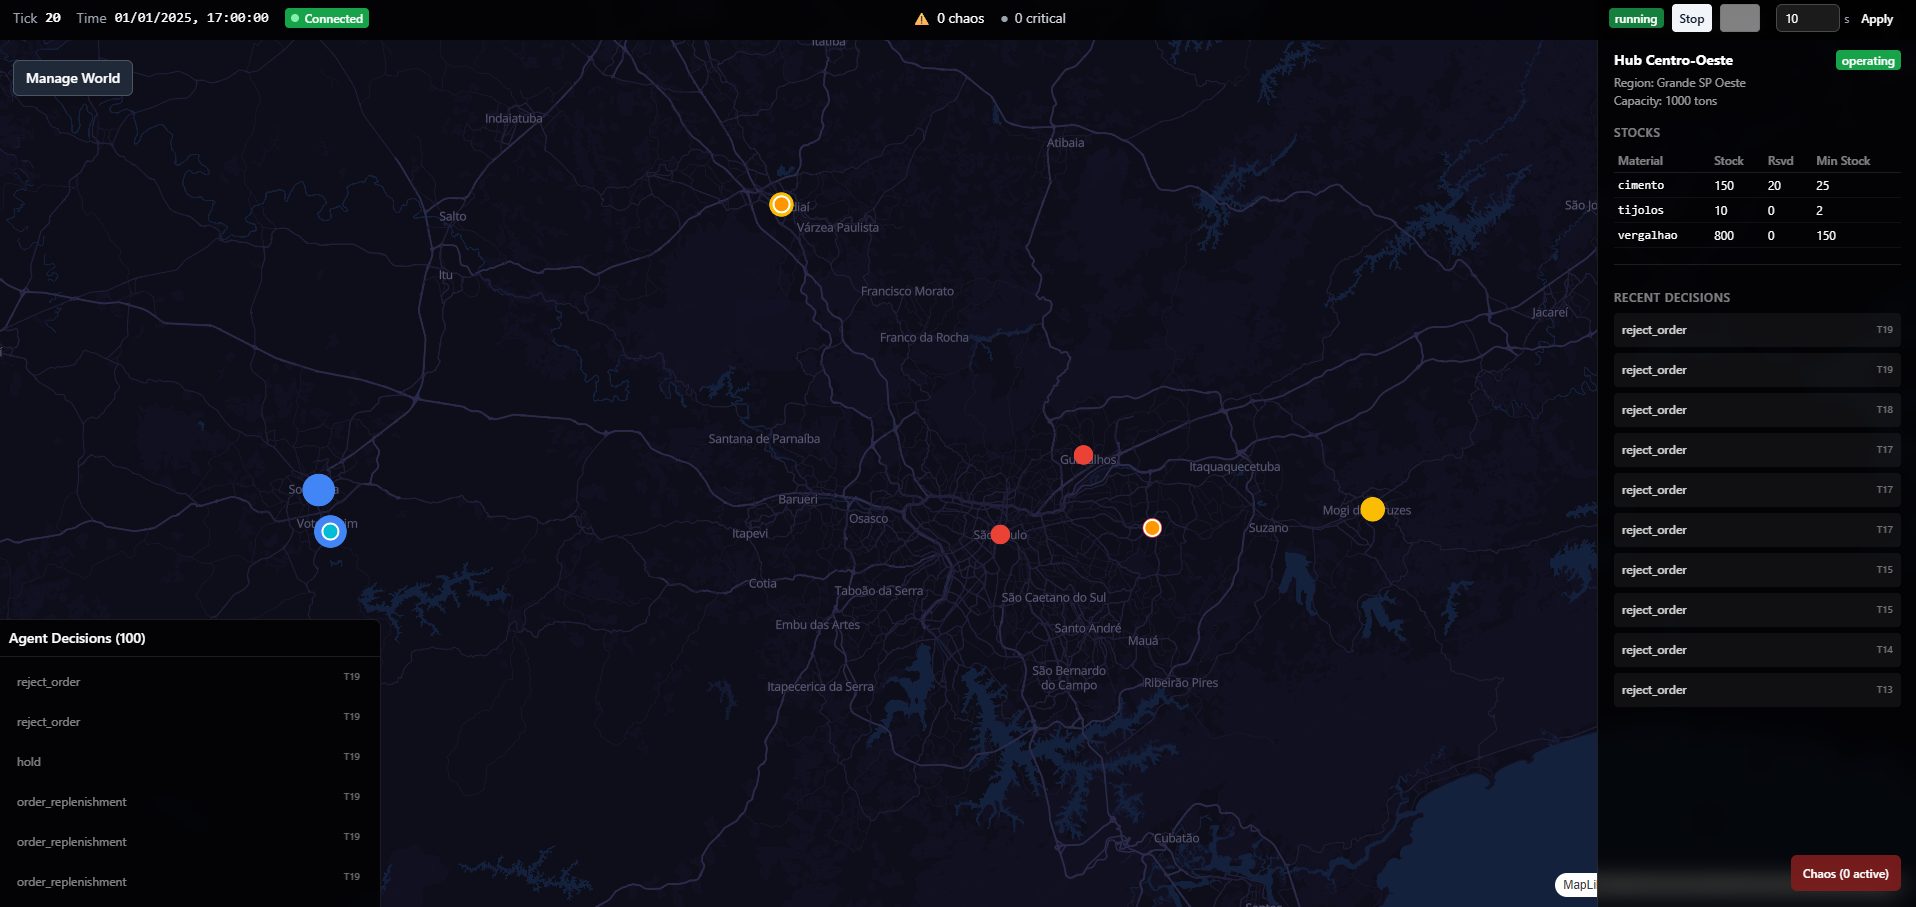
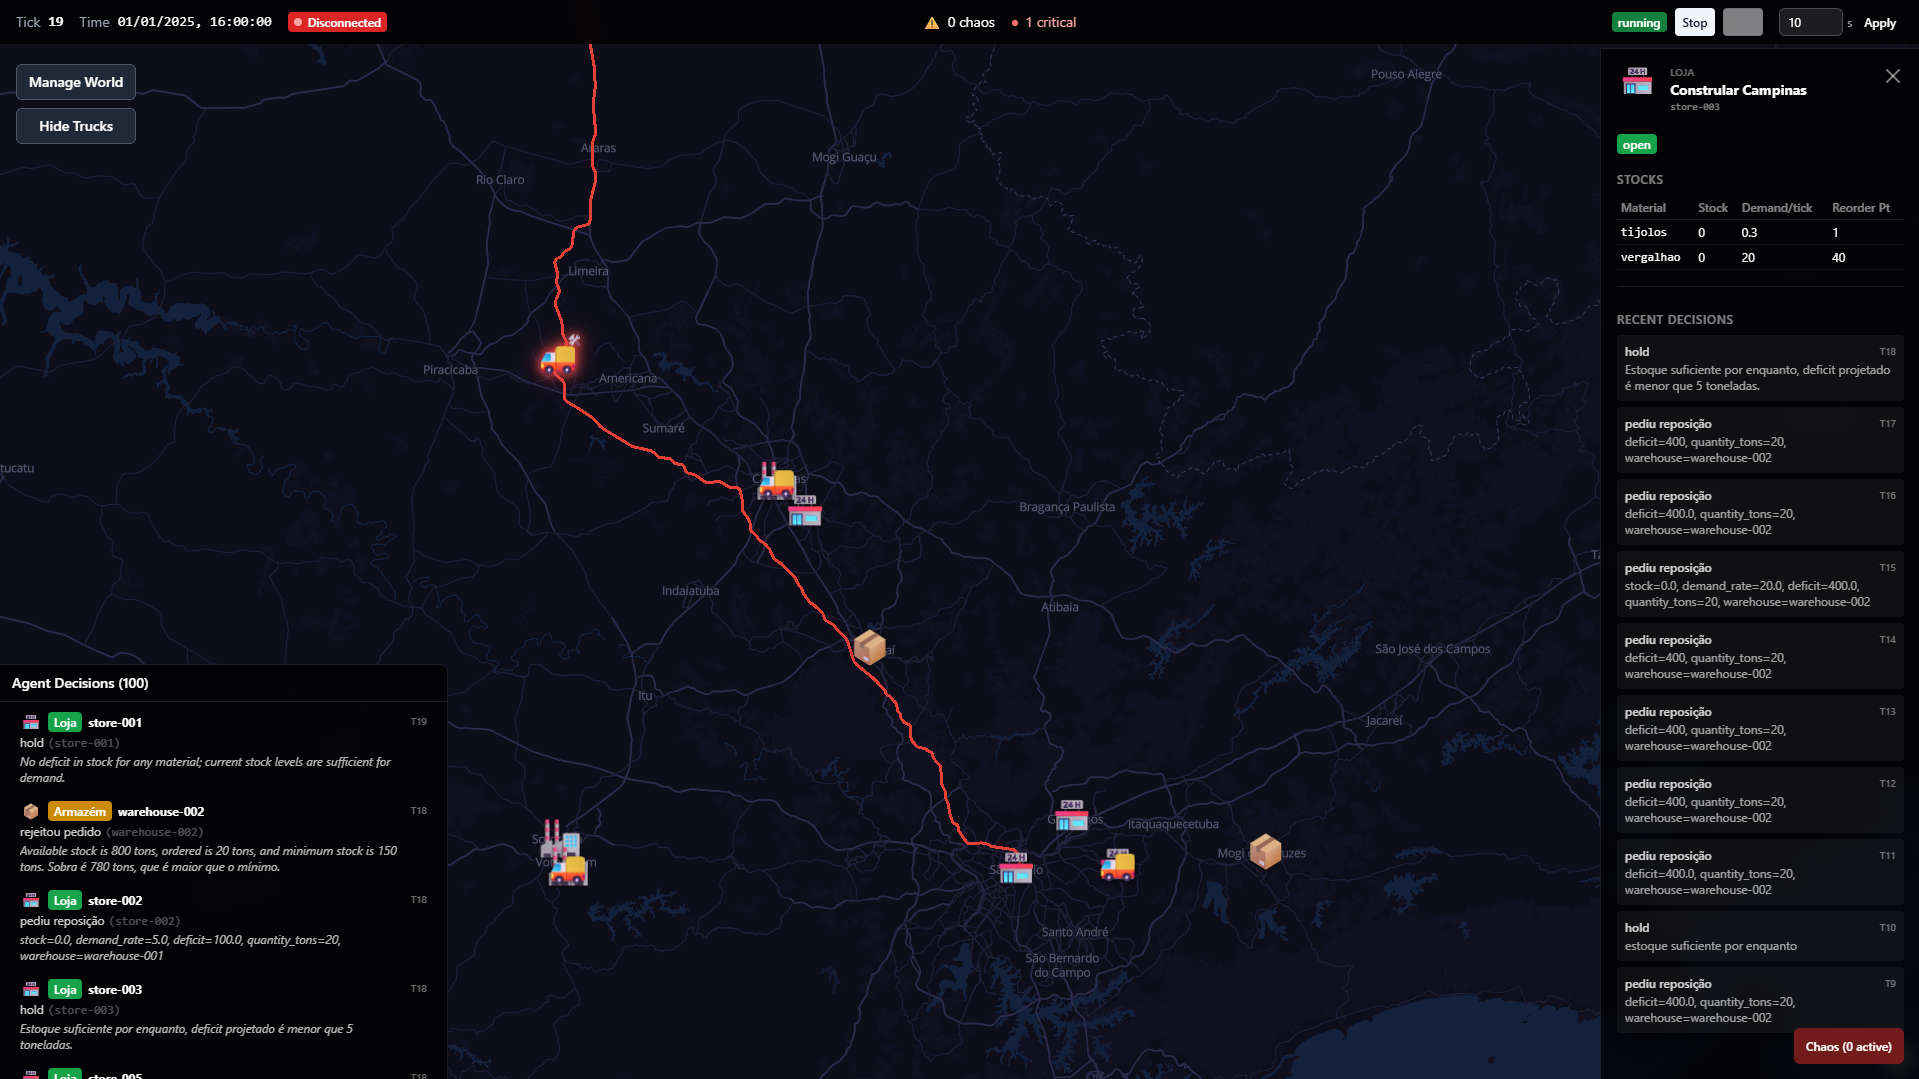
docs: new demo gif and updated screenshots
- Replace static app_01.png with animated app_01.gif showing trucks routing
  live over São Paulo, scaled to 82% width for crispness.
- Updated app_02 (store InspectPanel + dashed red broken route) and app_03
  (truck InspectPanel + green active route, emoji markers, direction flip)
  with current UI, including revised captions.

diff --git a/README.md b/README.md
@@ -24,7 +24,7 @@
 
 <br />
 
-<img src="assets/app_01.png" alt="Nexus Twin — trucks in transit with live agent decisions" width="92%" />
+<img src="assets/app_01.gif" alt="Nexus Twin — live simulation of autonomous trucks routing over São Paulo's OSM highways" width="82%" />
 
 </div>
 
@@ -48,12 +48,12 @@ A closed, autonomous world inspired by RPG NPCs — but instead of a dungeon, th
 <table>
   <tr>
     <td width="50%" valign="top">
-      <img src="assets/app_02.png" alt="Warehouse inspect panel with stock levels and recent decisions" />
-      <p align="center"><sub><b>Inspect any node.</b> Click a factory, warehouse, or store to see stock per material, min thresholds, and the agent's recent decisions.</sub></p>
+      <img src="assets/app_02.png" alt="Store inspect panel with stocks, demand, and a broken truck's interrupted route dashed in red" />
+      <p align="center"><sub><b>Inspect any node.</b> Click a factory 🏭, warehouse 📦 or store 🏪 to see stocks per material, demand, reorder points, and the agent's recent decisions. The dashed red line is a truck that broke down mid-trip — the rescue will pick up the cargo automatically.</sub></p>
     </td>
     <td width="50%" valign="top">
-      <img src="assets/app_03.png" alt="Truck in transit with cargo, degradation and breakdown risk" />
-      <p align="center"><sub><b>Follow a truck in real time.</b> Cargo, degradation, breakdown risk, and route animate live as the truck drives along actual OSM highways.</sub></p>
+      <img src="assets/app_03.png" alt="Truck in transit with cargo, degradation, breakdown risk, and an active green route" />
+      <p align="center"><sub><b>Follow a truck in real time.</b> Click any truck 🚚 to see type (proprietário/terceiro), cargo manifest, degradation bar, and breakdown risk. The green line animates smoothly in real time as the truck drives along actual OSM highways; the icon flips horizontally to face the direction of travel.</sub></p>
     </td>
   </tr>
 </table>
